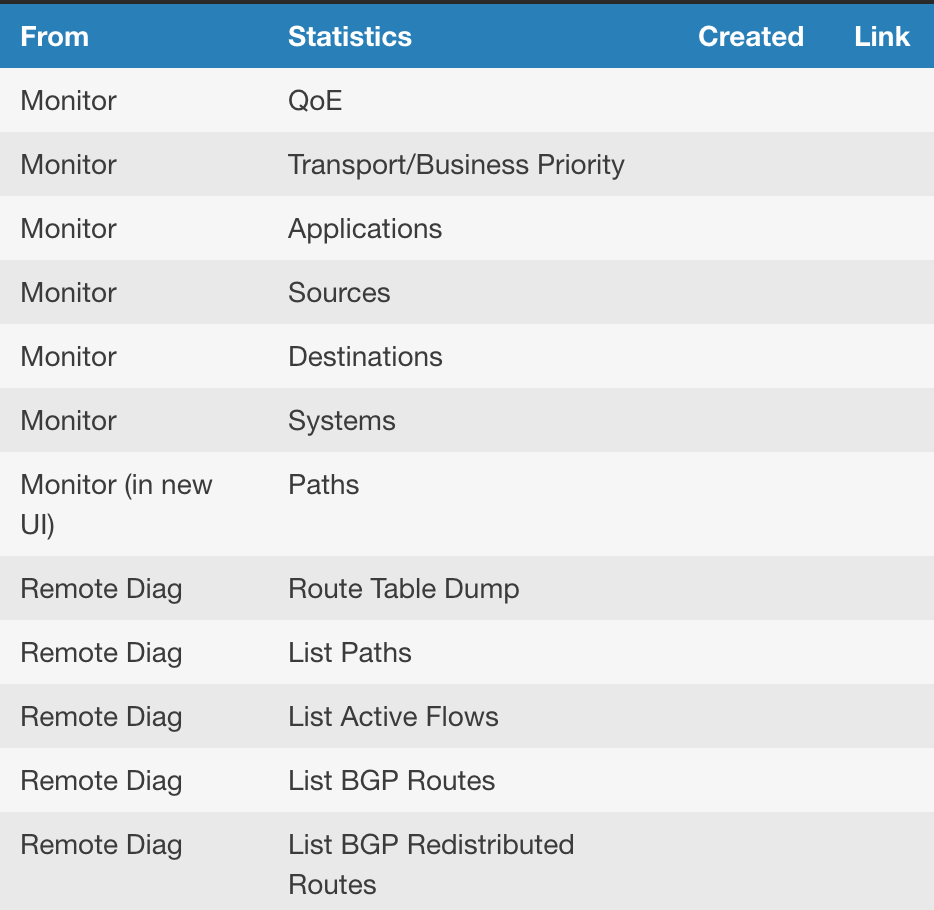
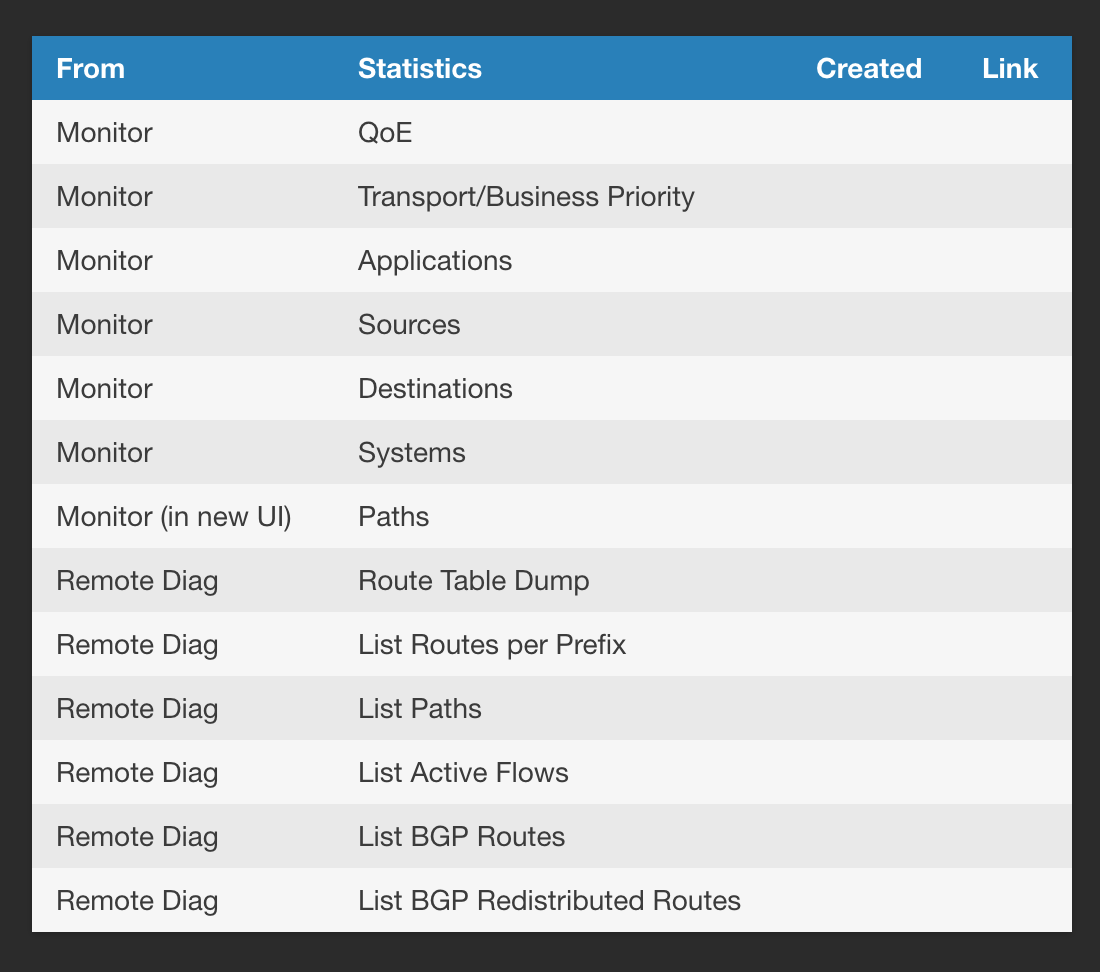
Fixing min-height in popup.html & update README

diff --git a/css/popup.css b/css/popup.css
@@ -7,6 +7,7 @@ body {
   -webkit-font-smoothing: antialiased;
   font-smoothing: antialiased;
   min-width: 600px;
+  min-height: 1000px;
   background: #2b2b2b;
 }
 @media screen and (max-width: 240px) {

diff --git a/README.md b/README.md
@@ -24,6 +24,9 @@ Depending on the demand, I might program a switch for enable/disable the plugin.
 
 ## Versions
 
+* 0.6:
+    * Fixing file location for extension
+    * Supporting now list of routes per prefix (route detail output)
 * 0.5:
     * Fixing local storage deleting.
     * Fixing date in the menu. 
@@ -35,10 +38,8 @@ Depending on the demand, I might program a switch for enable/disable the plugin.
     * Optimized Code
 * 0.2:
     * Supporting now QoE Statistics.
-
 * 0.1:
     * First release.
-
 
 ## Tested
 
